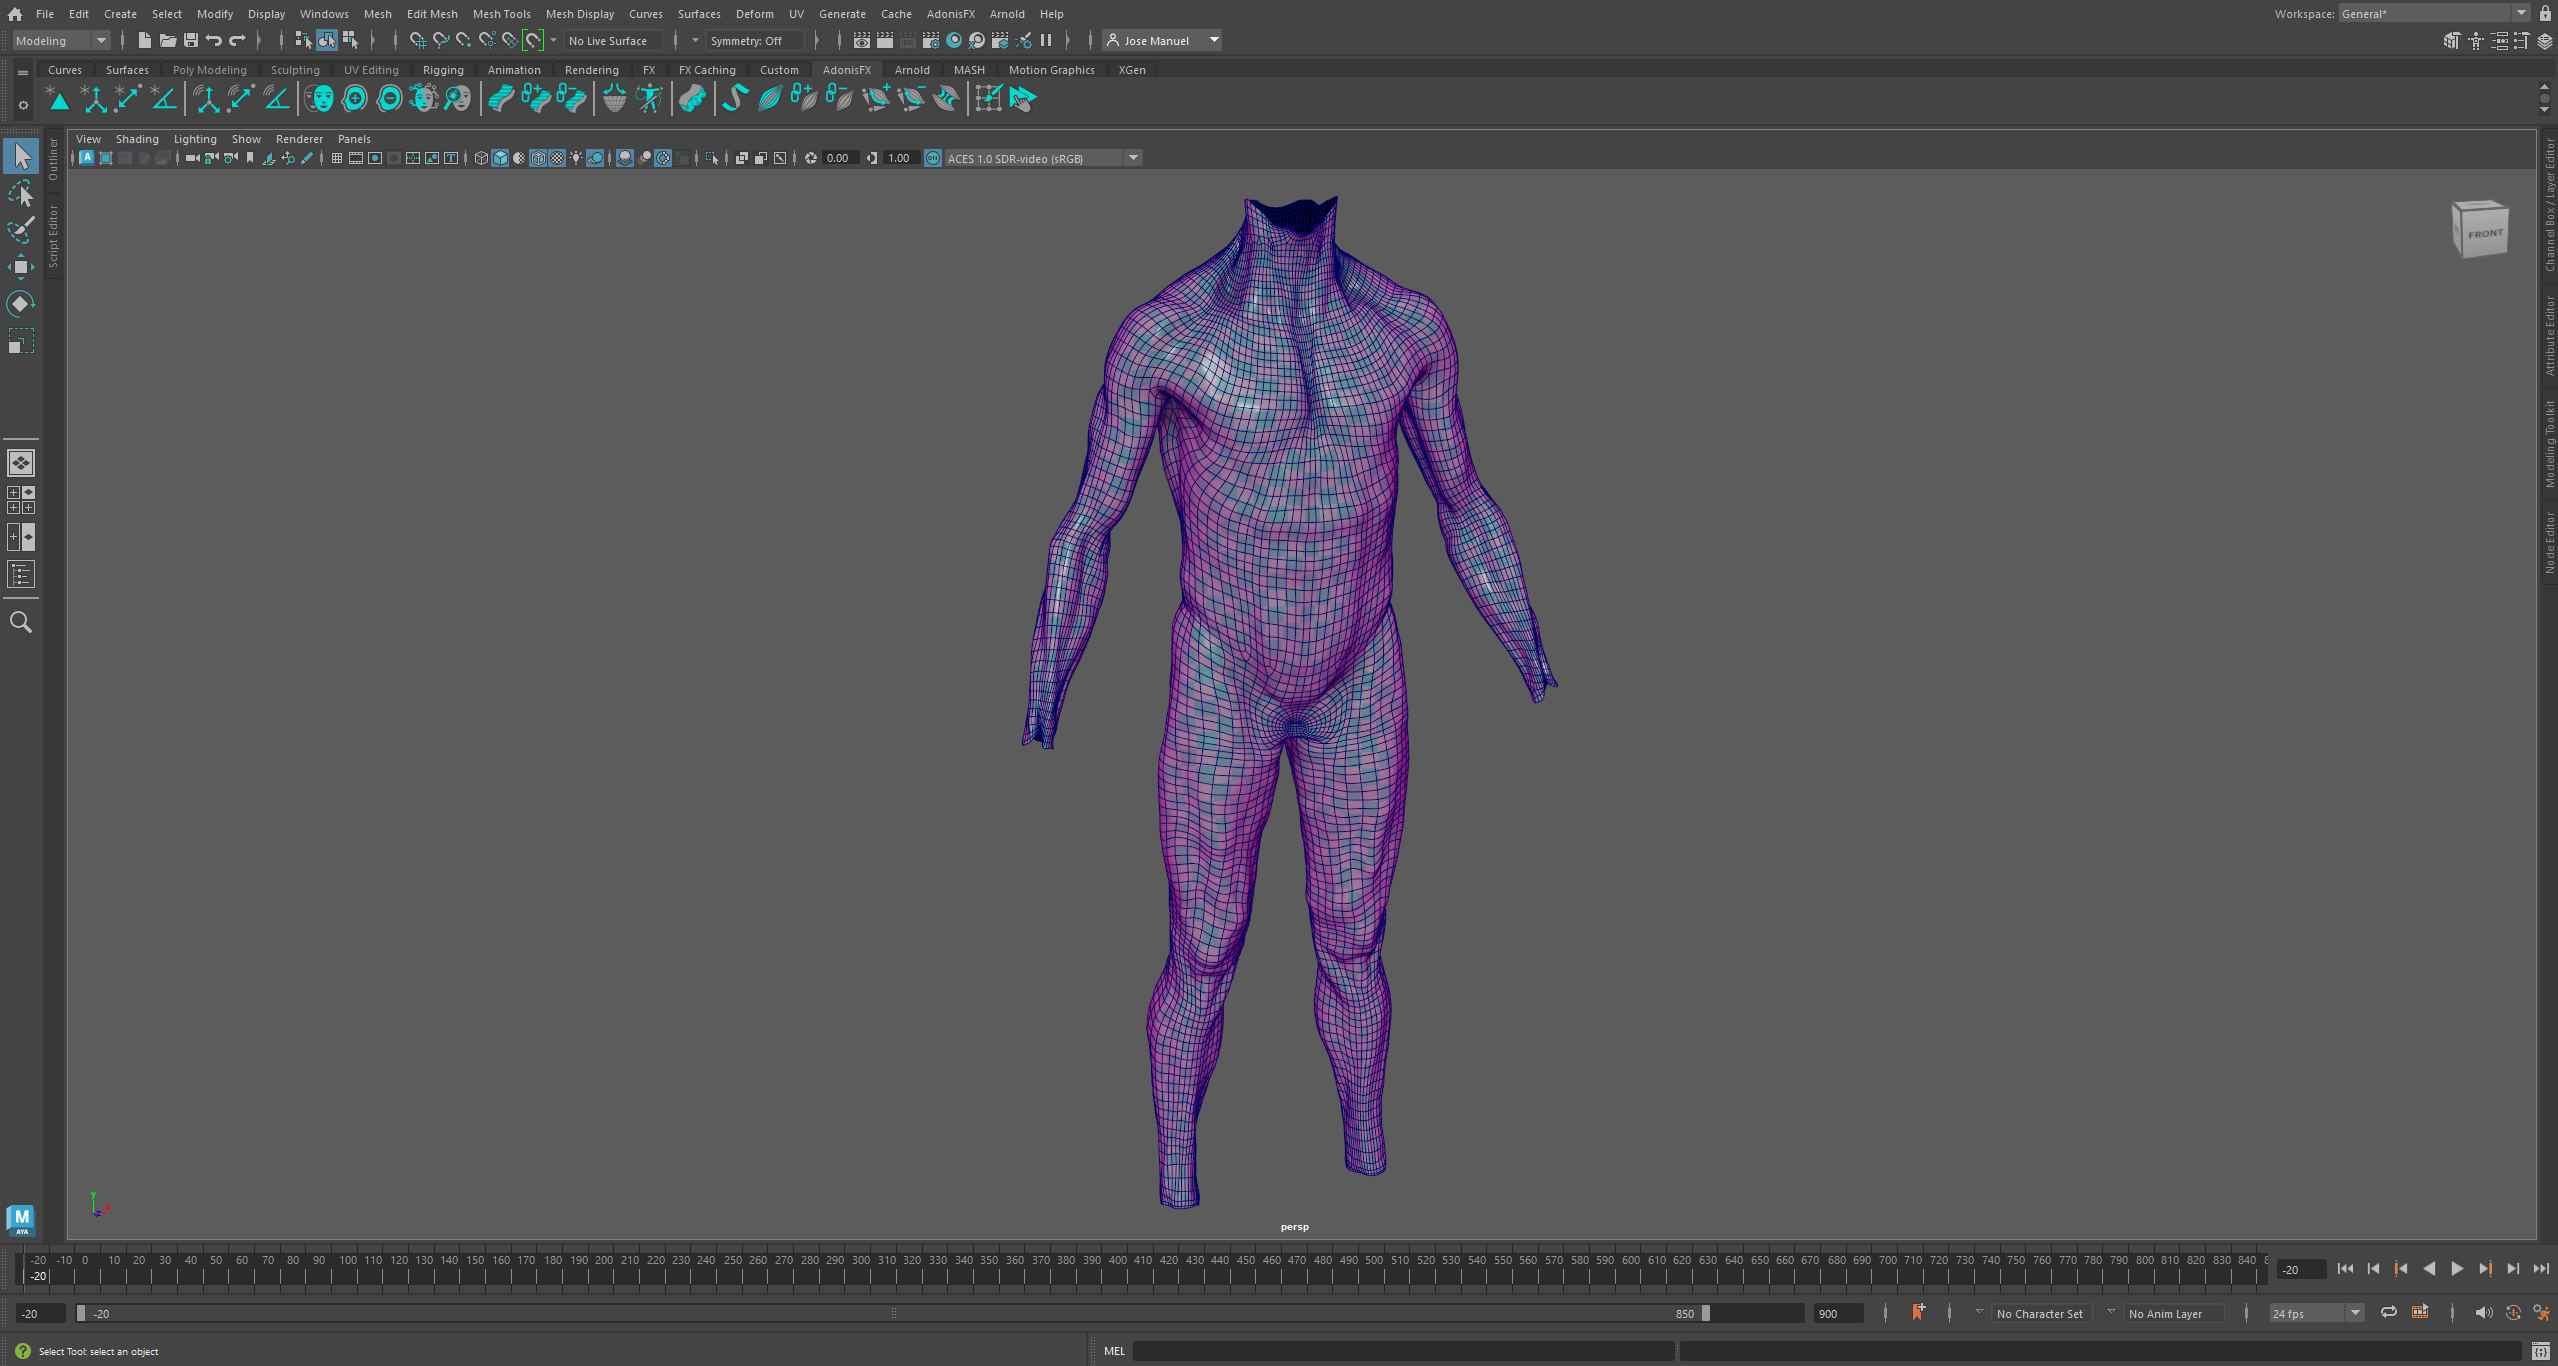
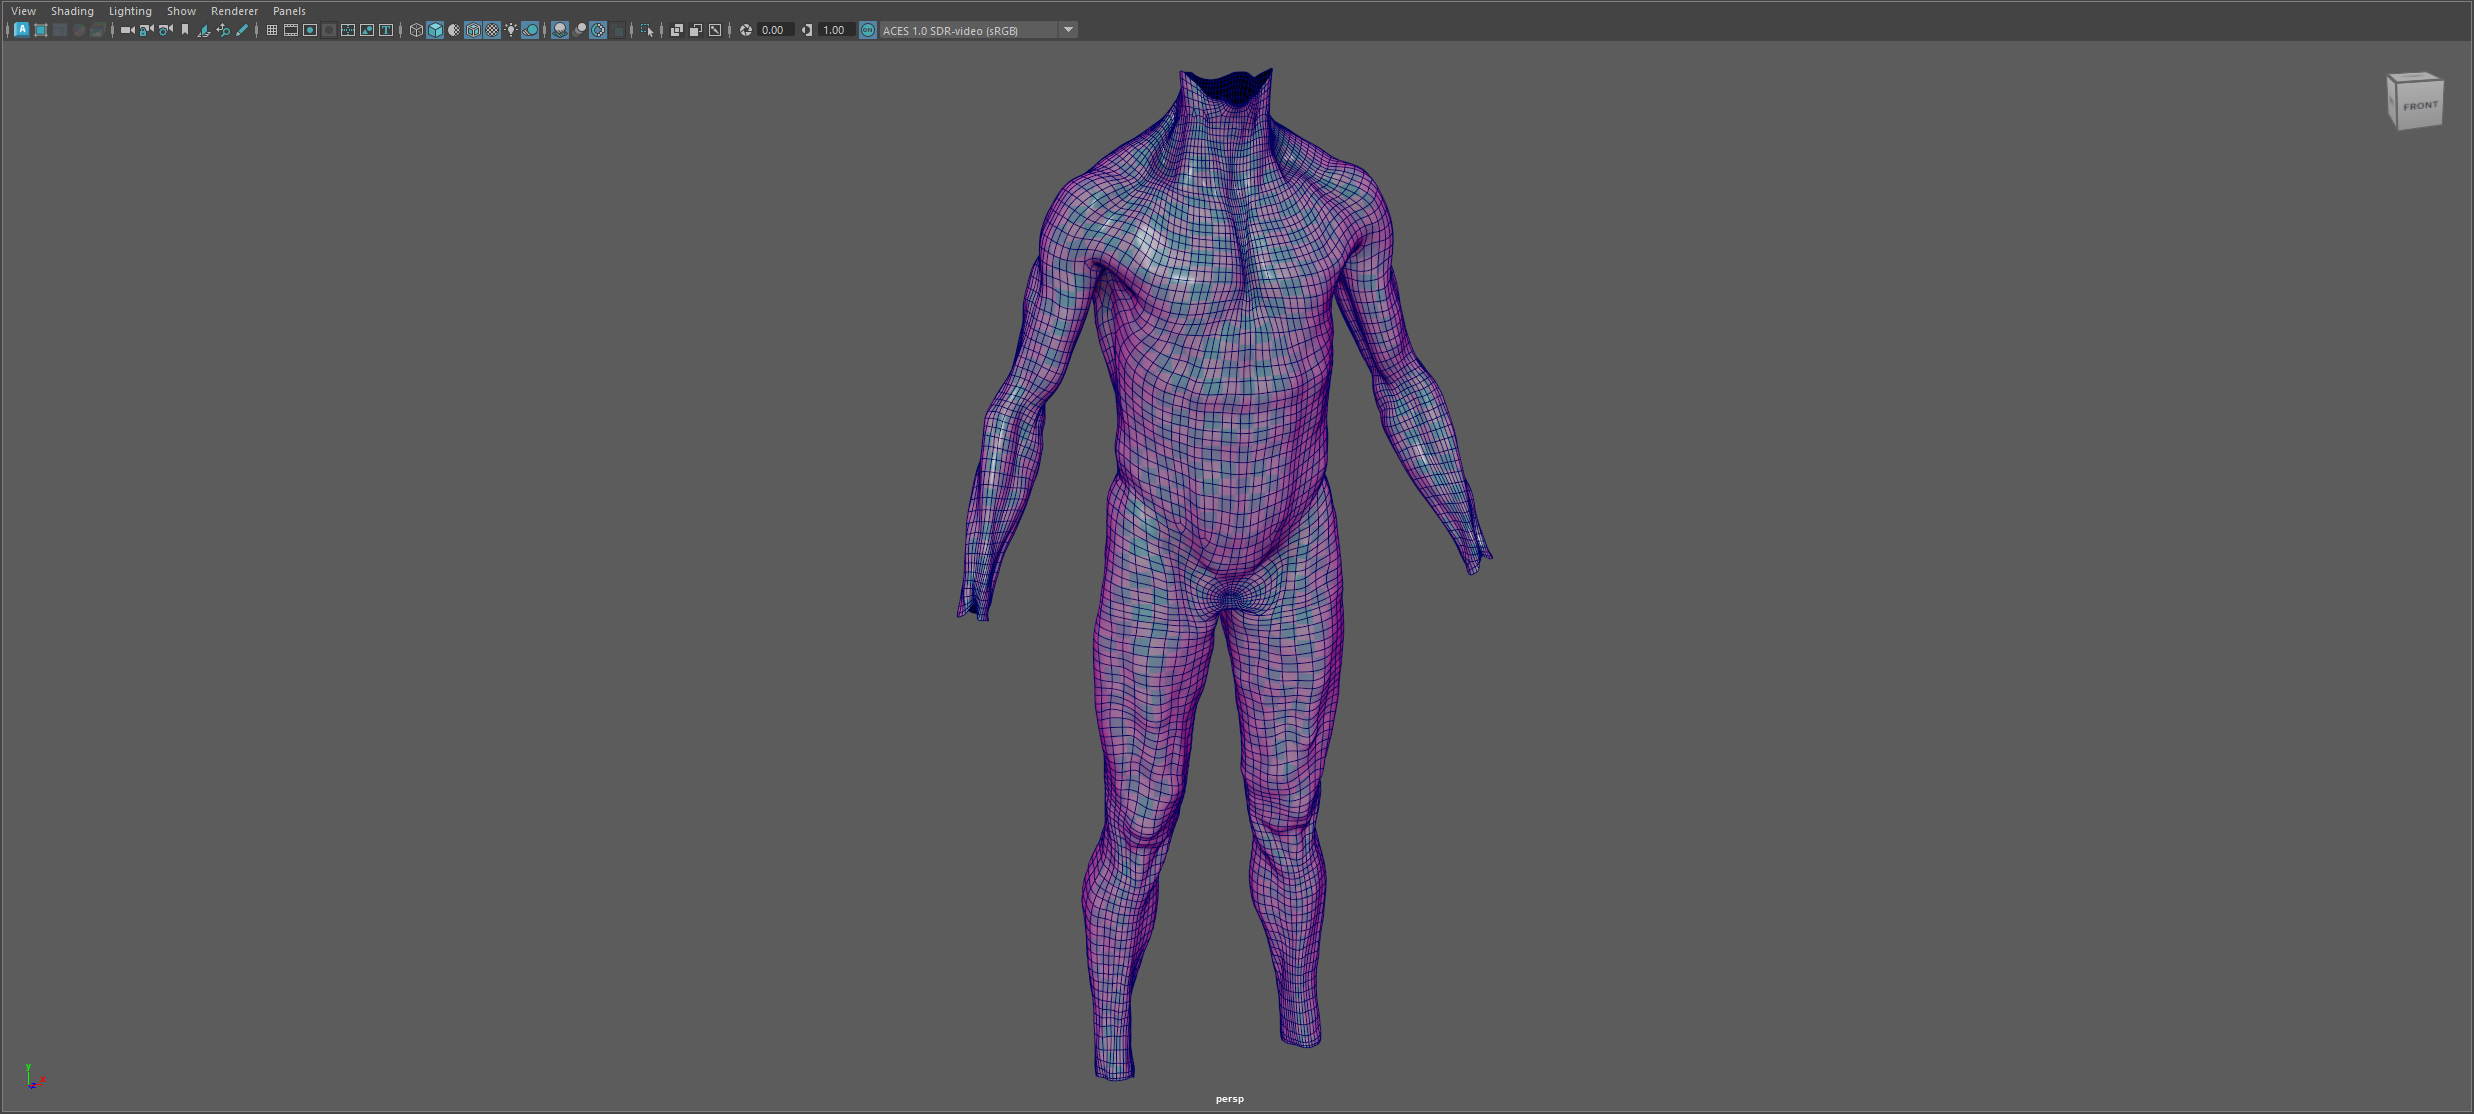
Cropped simple_setup_relax_00.png so that only the viewport is visible. Removed simple_setup_relax_01.png. Reformulated "Create Deformer" section for AdnRelax. Rephrased sentences. Updated figure numbers.

Changed region(s): [[0.0, 0.0, 1.0, 1.0]]

diff --git a/docs/maya/simple_setup.md b/docs/maya/simple_setup.md
@@ -429,19 +429,16 @@ To create a basic scenario using the AdnRelax deformer, start with a scene with 
 
 <figure>
   <img src="images/simple_setup_relax_00.png">
-  <figcaption><b>Figure 42</b>: Basic setup for AdnRelax. The mesh is the result of the fascia simulation to which AdnRelax is going be applied. </figcaption>
+  <figcaption><b>Figure 42</b>: Basic setup for AdnRelax. The mesh is the result of the fascia simulation to which AdnRelax is going to be applied. </figcaption>
 </figure>
 
 ### Create Deformer
 
-To create the AdnRelax deformer select the desired mesh and press the ![AdnRelax](images/adn_relax.png){style="width:4%"} shelf button or go to AdonisFX Menu > Deformers > *Relax*.
+To create the AdnRelax deformer:
 
-<figure>
-  <img src="images/simple_setup_relax_01.png">
-  <figcaption><b>Figure 43</b>: AdnRelax creation scenario. </figcaption>
-</figure>
-
-Iterations are set to 0 by default. To see the effect of the relaxation algorithm increase this number of iterations.
+1. Select the mesh to apply the deformer onto.
+2. Press the ![AdnRelax](images/adn_relax.png){style="width:4%"} shelf button or go to AdonisFX Menu > Deformers > *Relax*.
+3. Increase the number of iterations to see the effect of the relaxation algorithm.
 
 ### Paint Weights
 
@@ -452,9 +449,9 @@ The AdnRelax paintable maps are flooded to 1.0 by default because they act as mu
 
 The deformed mesh can be refined in specific areas by modifying the multiplier maps. Flood a specific map to 0.0 and paint higher values in the areas where the relaxation algorithm should take effect.
 
-The smoothing is modulated by the *Smooth Multiplier* map. Keep it flooded to 1.0 to smooth the surface of the entire mesh, or flood it to 0.0 and paint values of 1.0 in the areas that need smoothing (e.g., regions with undesired creases).
+The smoothing is modulated by the *Smooth Multiplier* map. Keep it flooded to 1.0 to smooth the surface of the entire mesh, or flood it to 0.0 and paint values of 1.0 in the areas that need smoothing.
 
-The relaxation is modulated by the *Relax Multiplier* map. Keep it flooded to 1.0 to relax the surface of the entire mesh, or flood it to 0.0 and paint values of 1.0 in the areas that need relaxation (e.g., regions with over-compression or over-stretching).
+The relaxation is modulated by the *Relax Multiplier* map. Keep it flooded to 1.0 to relax the surface of the entire mesh, or flood it to 0.0 and paint values of 1.0 in the areas that need relaxation.
 
 After smoothing and relaxation are applied, the mesh may lose some volume or detail. Push in and push out adjustments can be used to recover volume and detail. The attributes *Push In Ratio* and *Push Out Ratio* are set to 0.0 by default, to apply these adjustments, increase their values. Then, use the *Push In Ratio Multiplier* and *Push Out Ratio Multiplier* maps to modulate the specific areas where these adjustments will take effect.
 
@@ -474,7 +471,7 @@ The AdnSkinMerge deformer will be applied to the final mesh which will  be the r
 
 <figure>
   <img src="images/simple_setup_skin_merge_00.png"> 
-  <figcaption><b>Figure 44</b>: Basic setup for skin merge. Meshes isolated for better visualization. From left to right: Final Mesh, Animation Mesh, Simulation Mesh.</figcaption>
+  <figcaption><b>Figure 43</b>: Basic setup for skin merge. Meshes isolated for better visualization. From left to right: Final Mesh, Animation Mesh, Simulation Mesh.</figcaption>
 </figure>
 
 ### Create Deformer
@@ -487,7 +484,7 @@ When everything has been properly set up, press the *Create* button to create th
 
 <figure>
   <img src="images/simple_setup_skin_merge_01.png"> 
-  <figcaption><b>Figure 45</b>: Create Skin Merge window with corresponding meshes added.</figcaption>
+  <figcaption><b>Figure 44</b>: Create Skin Merge window with corresponding meshes added.</figcaption>
 </figure>
 
 ### Paint Weights
@@ -503,7 +500,7 @@ To have a smooth transition from the simulated mesh to the animated mesh, smooth
 
 <figure>
   <img src="images/simple_setup_skin_merge_02.png"> 
-  <figcaption><b>Figure 46</b>: Blend weights painted map.</figcaption>
+  <figcaption><b>Figure 45</b>: Blend weights painted map.</figcaption>
 </figure>
 
 With this basic paint setup the AdnSkinMerge deformer will now show the results of skin simulation transferred to the final mesh.
@@ -522,21 +519,21 @@ To create the AdnGlue node, select the simulated muscles and press the ![AdnGlue
 
 <figure>
   <img src="images/simple_setup_glue_00.png"> 
-  <figcaption><b>Figure 47</b>: AdnGlue deformer creation scenario.</figcaption>
+  <figcaption><b>Figure 46</b>: AdnGlue deformer creation scenario.</figcaption>
 </figure>
 
 After the node creation, input muscles can be added or removed from the existing AdnGlue by pressing AdonisFX > Glue > *Add Inputs* or AdonisFX > Glue > *Remove Inputs* respectively.
 
 <figure>
   <img src="images/simple_setup_glue_01.png"> 
-  <figcaption><b>Figure 48</b>: Removing muscles from the AdnGlue node.</figcaption>
+  <figcaption><b>Figure 47</b>: Removing muscles from the AdnGlue node.</figcaption>
 </figure>
 
 The *Max Glue Distance* attribute is set to 0.0 by default. Therefore, for the glue constraints to take effect, this value must be adjusted. We recommend enabling the debugger and selecting the *Glue Constraints* option to inspect the connections created based on the specified *Max Glue Distance*.
 
 <figure>
   <img src="images/simple_setup_glue_02.png"> 
-  <figcaption><b>Figure 49</b>: Debugging the Glue Constraints connections with a Max Glue Distance of 0.1.</figcaption>
+  <figcaption><b>Figure 48</b>: Debugging the Glue Constraints connections with a Max Glue Distance of 0.1.</figcaption>
 </figure>
 
 ### Paint Weights
@@ -552,19 +549,19 @@ Since the *Max Glue Distance* is initially the same for all muscles, you may wan
 
 <figure>
   <img src="images/simple_setup_glue_03.png"> 
-  <figcaption><b>Figure 50</b>: Glue Distance Multiplier map painted in specific areas where muscles are supposed to be glued together.</figcaption>
+  <figcaption><b>Figure 49</b>: Glue Distance Multiplier map painted in specific areas where muscles are supposed to be glued together.</figcaption>
 </figure>
 
 <figure>
   <img src="images/simple_setup_glue_04.png"> 
-  <figcaption><b>Figure 51</b>: Displaying the Glue Constraints debugger after painting the Glue Distance Multiplier in the target area.</figcaption>
+  <figcaption><b>Figure 50</b>: Displaying the Glue Constraints debugger after painting the Glue Distance Multiplier in the target area.</figcaption>
 </figure>
 
 The *Glue Resistance* map modulates the strength of the glue constraint. To reduce the effect of the constraint in specific areas, lower the values in this map accordingly. Glue constraints won't be computed for vertices with a weight value of 0.0.
 
 <figure>
   <img src="images/simple_setup_glue_05.png"> 
-  <figcaption><b>Figure 52</b>: Glue Resistance map painted in specific areas where muscles are supposed to be glued together.</figcaption>
+  <figcaption><b>Figure 51</b>: Glue Resistance map painted in specific areas where muscles are supposed to be glued together.</figcaption>
 </figure>
 
 Finally, shape preservation constraints help to maintain the original shape of the muscles. These constraints are useful if the gluing produces undesired shape on the output mesh. If that is not the case, then this map can stay unmodified (0.0) which will make the solver run faster. If shape preservation is required, then increase the values on those areas where the shape has been altered during the simulation.
